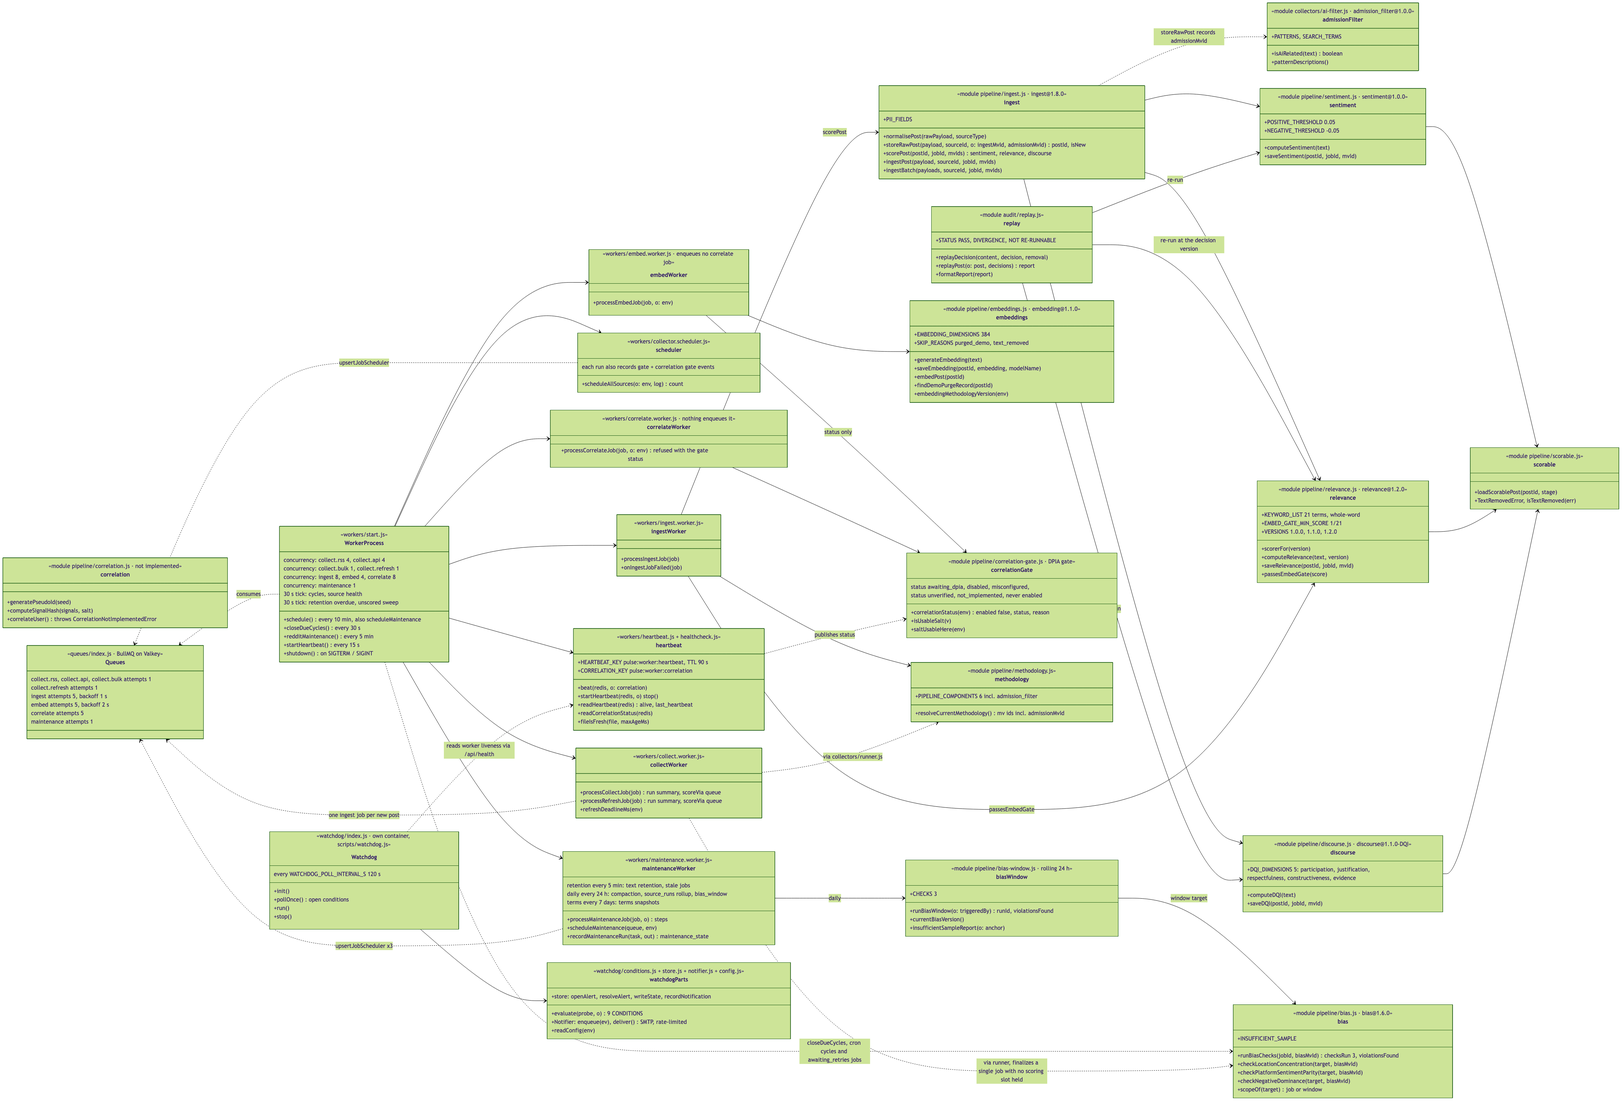
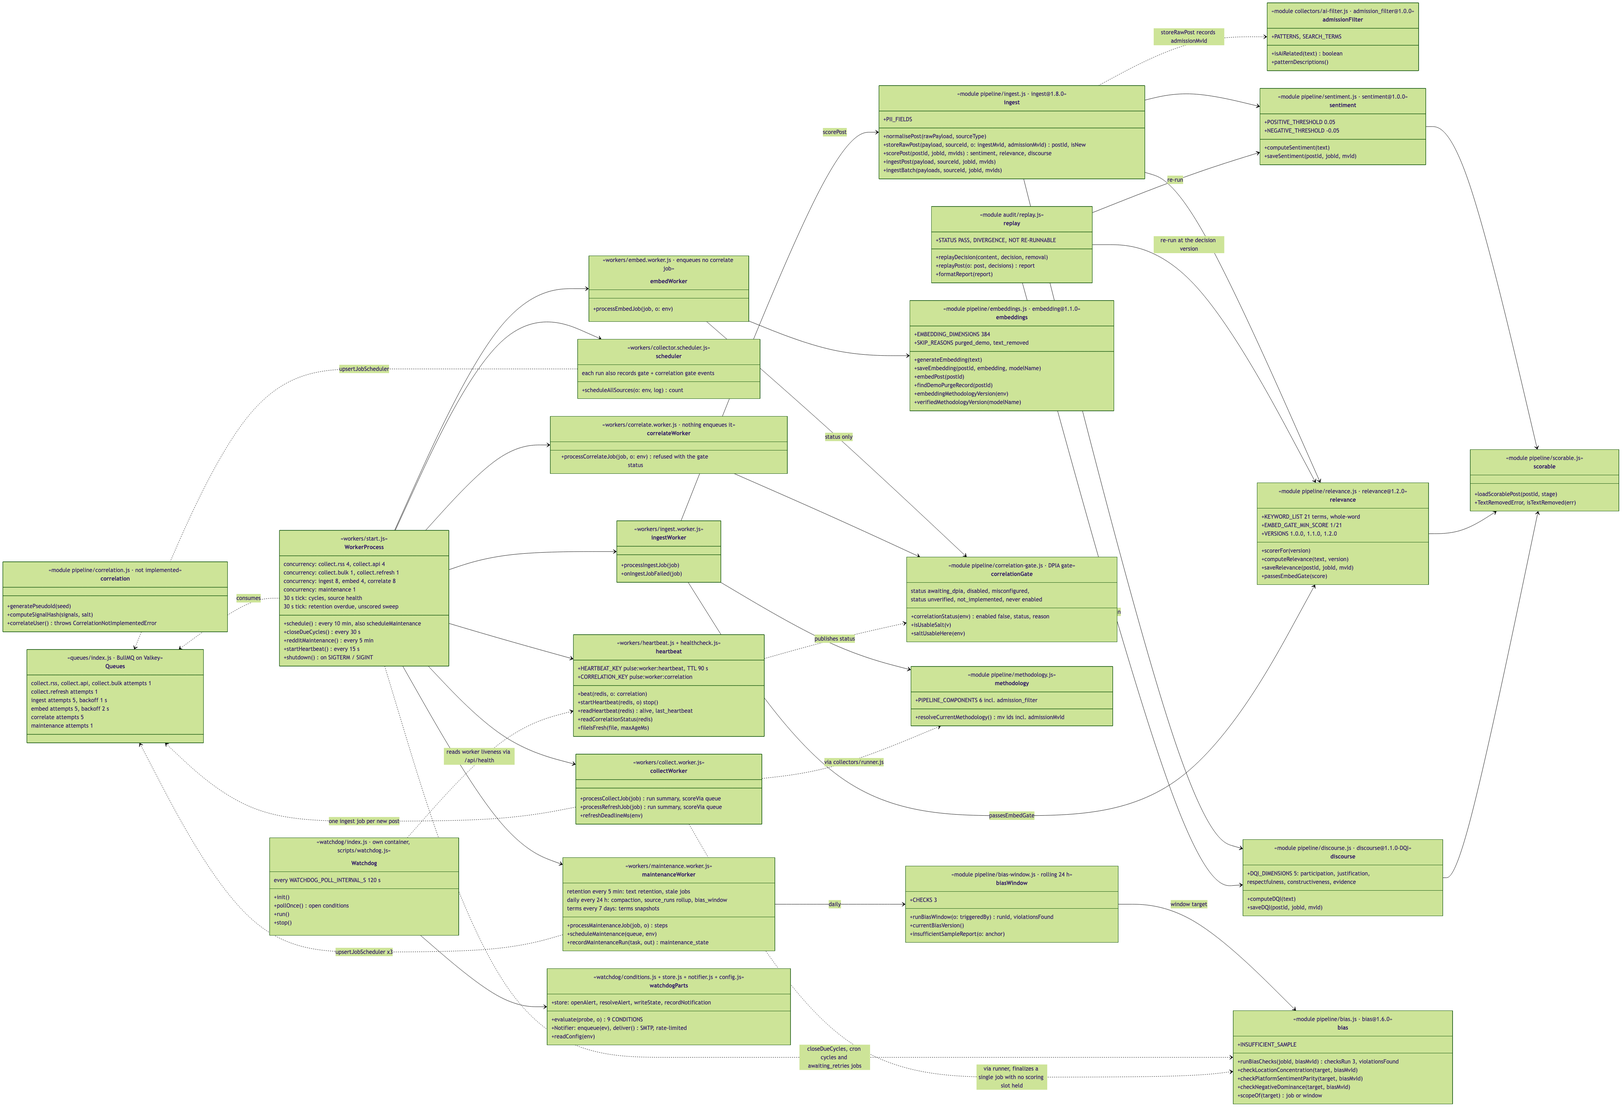
Diagrams: embed worker verifies /health before stamping; reset not in the future
Brings five diagrams in line with PR #43 and names master @ 2b5e6c3:
- architecture: the worker's edge to the embeddings service is POST
  /embeddings, then GET /health (model, revision, library); its sources
  list src/pipeline/embeddings.js.
- collection-3 step 38: the stamp needs /health to report the registered
  model, revision and library, else NULL; an unreadable /health fails and
  retries the job.
- pipeline-and-workers: embeddings exports verifiedMethodologyVersion.
- collection-1 R4 and source-gate-status: a SOURCE_<SLUG>_RESET date must
  not be in the future.
- README and MANIFEST: master @ 2b5e6c3 (PRs #41 and #43 merged).

PNGs and HTML re-rendered with render.sh; MANIFEST PNG sizes updated for
collection-1 (5868x2726), collection-3 (5025x1544) and pipeline-and-workers
(4586x3131). render.sh --check: 21/21 ok.

diff --git a/docs/diagrams/architecture.html b/docs/diagrams/architecture.html
@@ -30,7 +30,7 @@
 %% Title: High-level architecture (containers)
 %% Summary: Every running container of the compose stack, what runs inside it, the queues between them and the 52-source registry they collect from.
 %% Canonical source. architecture.html embeds this definition verbatim and architecture.png is rendered from it (bash docs/diagrams/render.sh).
-%% Sources: docker-compose.yml, src/server.js, src/routes/*, src/routes/health.js, src/queues/index.js, src/workers/start.js, src/workers/collect.worker.js, src/workers/ingest.worker.js, src/workers/maintenance.worker.js, src/workers/collector.scheduler.js, src/collectors/{runner,state,governance,source-health,retention-overdue}.js, src/collectors/reddit/maintenance.js, src/workers/heartbeat.js, scripts/watchdog.js, src/watchdog/*, public/index.html, src/config/source-registry.js, src/db/migrations/ (50 files, 001-066). Spec: TECHNICAL_SPEC.md sections 4, 7, 12, 17. Updated 2026-09-30.
+%% Sources: docker-compose.yml, src/server.js, src/routes/*, src/routes/health.js, src/queues/index.js, src/workers/start.js, src/workers/collect.worker.js, src/workers/ingest.worker.js, src/pipeline/embeddings.js, src/workers/maintenance.worker.js, src/workers/collector.scheduler.js, src/collectors/{runner,state,governance,source-health,retention-overdue}.js, src/collectors/reddit/maintenance.js, src/workers/heartbeat.js, scripts/watchdog.js, src/watchdog/*, public/index.html, src/config/source-registry.js, src/db/migrations/ (50 files, 001-066). Spec: TECHNICAL_SPEC.md sections 4, 7, 12, 17. Updated 2026-10-01.
 flowchart LR
 
   subgraph BROWSER["② Browser · public/"]
@@ -144,7 +144,7 @@ flowchart LR
   Q3 --&gt; K4
   K4 -- "scores, audit rows" --&gt; D2
   K4 -- "embed jobs" --&gt; Q3
-  K4 -- "POST /embeddings" --&gt; E1
+  K4 -- "POST /embeddings, then GET /health (model, revision, library)" --&gt; E1
   K4 -- "post_embeddings" --&gt; D3
   K3 -- "bias_assessments, alert_events" --&gt; D3
   K5 -- "blank deleted Reddit posts (raw_posts)" --&gt; D2

diff --git a/docs/diagrams/model/pipeline-and-workers.html b/docs/diagrams/model/pipeline-and-workers.html
@@ -29,7 +29,7 @@
 <pre class="mermaid">
 %% Title: Object model · pipeline modules, workers and queues
 %% Summary: The scoring pipeline modules and what each exports, the methodology resolver, the BullMQ queues on Valkey and the worker handlers that consume them (incl. the maintenance schedulers), the audit replay module and the external watchdog.
-%% Sources: src/pipeline/*.js, src/collectors/ai-filter.js, src/queues/{index,connection,pending}.js, src/workers/*.js, src/collectors/runner.js (single-job finalization), src/db/pool-size.js (workerConcurrency), src/audit/replay.js, src/watchdog/*.js, scripts/watchdog.js, src/config/methodology-registry.js (CURRENT_VERSIONS), docker-compose.yml (redis service = Valkey 8). Updated 2026-09-30. Spec: TECHNICAL_SPEC.md sections 9, 10, 12, 18, 19, 20. Versions are CURRENT_VERSIONS of the methodology registry.
+%% Sources: src/pipeline/*.js, src/collectors/ai-filter.js, src/queues/{index,connection,pending}.js, src/workers/*.js, src/collectors/runner.js (single-job finalization), src/db/pool-size.js (workerConcurrency), src/audit/replay.js, src/watchdog/*.js, scripts/watchdog.js, src/config/methodology-registry.js (CURRENT_VERSIONS), docker-compose.yml (redis service = Valkey 8). Updated 2026-10-01. Spec: TECHNICAL_SPEC.md sections 9, 10, 12, 18, 19, 20. Versions are CURRENT_VERSIONS of the methodology registry.
 classDiagram
   direction LR
 
@@ -102,6 +102,7 @@ classDiagram
     +embedPost(postId)
     +findDemoPurgeRecord(postId)
     +embeddingMethodologyVersion(env)
+    +verifiedMethodologyVersion(modelName)
   }
   class correlation {
     &lt;&lt;module pipeline/correlation.js · not implemented&gt;&gt;

diff --git a/docs/diagrams/flows/collection-1-schedule-and-gates.html b/docs/diagrams/flows/collection-1-schedule-and-gates.html
@@ -61,7 +61,7 @@ flowchart LR
     R1{"9 · collection deadline&lt;br/&gt;already reached?"}:::done
     R2{"10 · database kill switch?&lt;br/&gt;data_sources.collection_disabled_at&lt;br/&gt;(npm run source:disable, refused&lt;br/&gt;without GATE_APPROVED_BY)"}:::done
     R3{"11 · refused state?&lt;br/&gt;source_collection_state&lt;br/&gt;access_denied_at, refused_until"}:::done
-    R4["SOURCE_#lt;SLUG#gt;_RESET date at or after the&lt;br/&gt;last refusal and a valid GATE_APPROVED_BY:&lt;br/&gt;clearRefusal() + source_gate_events&lt;br/&gt;refusal_reset, one transaction"]:::done
+    R4["SOURCE_#lt;SLUG#gt;_RESET date at or after the&lt;br/&gt;last refusal, not in the future, and a valid&lt;br/&gt;GATE_APPROVED_BY:&lt;br/&gt;clearRefusal() + source_gate_events&lt;br/&gt;refusal_reset, one transaction"]:::done
     R5{"12 · claim: last attempt older than&lt;br/&gt;the poll interval, less a jitter slack&lt;br/&gt;(at most 20 %)? (state.claim,&lt;br/&gt;atomic across worker and refresh)"}:::done
     R1 -- no --&gt; R2
     R2 -- no --&gt; R3

diff --git a/docs/diagrams/flows/collection-3-cycle-close-bias-alerts.html b/docs/diagrams/flows/collection-3-cycle-close-bias-alerts.html
@@ -76,7 +76,7 @@ flowchart LR
     direction TB
     E1["36 · embed.worker: embedPost(id)&lt;br/&gt;5 attempts, exponential backoff from 2 s"]:::done
     E2["37 · POST embeddings:8000/embeddings&lt;br/&gt;all-MiniLM-L6-v2 at the pinned revision"]:::done
-    E3["38 · upsert post_embeddings VECTOR(384),&lt;br/&gt;methodology_version 1.1.0 only when model&lt;br/&gt;and revision are the registered ones; skipped&lt;br/&gt;when the text was removed (checked FOR SHARE,&lt;br/&gt;G3) or the demo post purged"]:::done
+    E3["38 · GET embeddings:8000/health, then upsert&lt;br/&gt;post_embeddings VECTOR(384), methodology_version&lt;br/&gt;1.1.0 only when model and revision are the&lt;br/&gt;registered ones and /health reports the registered&lt;br/&gt;model, revision and library, else NULL; /health&lt;br/&gt;unreadable: the job fails and is retried; skipped&lt;br/&gt;when the text was removed (checked FOR SHARE,&lt;br/&gt;G3) or the demo post purged"]:::done
     E1 --&gt; E2 --&gt; E3
   end
 

diff --git a/docs/diagrams/states/source-gate-status.html b/docs/diagrams/states/source-gate-status.html
@@ -69,7 +69,7 @@ stateDiagram-v2
   collecting --&gt; blocked_by_source : 401, 403, 451, bot challenge or robots disallow, cooldown 1 h doubling to 24 h
   blocked_by_source --&gt; collecting : cooldown over and the one probe run succeeds
   blocked_by_source --&gt; blocked_by_source : probe refused again, cooldown doubles
-  blocked_by_source --&gt; collecting : SOURCE_SLUG_RESET date on or after the refusal with a valid GATE_APPROVED_BY, or source-admin reset (needs GATE_APPROVED_BY)
+  blocked_by_source --&gt; collecting : SOURCE_SLUG_RESET date on or after the refusal and not in the future with a valid GATE_APPROVED_BY, or source-admin reset (needs GATE_APPROVED_BY)
 
   state collecting {
     direction LR

diff --git a/docs/diagrams/MANIFEST-author.md b/docs/diagrams/MANIFEST-author.md
@@ -1,6 +1,6 @@
 # Author's manifest (for the independent audit)
 
-Branch `docs/diagrams-and-readme`, cut from `origin/feature/source-collectors` at `1399519`, merged with `origin/master` at `20de9e2` (PRs #9 and #10), again at `973cad8` (PR #22, collection hardening), again at `7291490` (PRs #24–#28 and #31–#34; #29 and #30 were closed without merging) and again at `0356a00` (PRs #35, #37, #38 and #39; #36 is an issue, not a PR). The diagram table, the README rows and the legal-notice work below describe `master` @ `0356a00` plus what this branch ships (the licence and the legal-notice UI). Nothing is marked wip: every PR #10 Part 2 item landed with PR #22.
+Branch `docs/diagrams-and-readme`, cut from `origin/feature/source-collectors` at `1399519`, merged with `origin/master` at `20de9e2` (PRs #9 and #10), again at `973cad8` (PR #22, collection hardening), again at `7291490` (PRs #24–#28 and #31–#34; #29 and #30 were closed without merging), again at `0356a00` (PRs #35, #37, #38 and #39; #36 is an issue, not a PR) and again at `2b5e6c3` (PRs #41 and #43). The diagram table, the README rows and the legal-notice work below describe `master` @ `2b5e6c3` plus what this branch ships (the licence and the legal-notice UI). Nothing is marked wip: every PR #10 Part 2 item landed with PR #22.
 
 How to verify the artifacts: `bash docs/diagrams/render.sh --check` confirms that every `.html` embeds its `.mmd` byte for byte (after HTML unescaping), and that every `.png` exists, is under 8000 px in both dimensions and matches a fresh re-render of its `.mmd` (same dimensions; at most PNG_TOLERANCE = 0.05% of pixels differing by more than 32 in a channel), and carries the SHA-256 of its current .mmd (tEXt chunk mmd-sha256). No timestamps are used. `bash docs/diagrams/render.sh <file.mmd>` regenerates both from the source with mermaid-cli 11.12.0, `-t forest`, `mmdc-config.json`.
 
@@ -8,19 +8,19 @@ How to verify the artifacts: `bash docs/diagrams/render.sh --check` confirms tha
 
 | # | File (`docs/diagrams/`) | PNG px | Code it was derived from (the `.mmd` header) | Spec § | Status |
 |---|---|---|---|---|---|
-| 1 | `architecture.mmd` | 5806×5536 | Canonical source. architecture.html embeds this definition verbatim and architecture.png is rendered from it (bash docs/diagrams/render.sh). Sources: docker-compose.yml, src/server.js, src/routes/*, src/routes/health.js, src/queues/index.js, src/workers/start.js, src/workers/collect.worker.js, src/workers/ingest.worker.js, src/workers/maintenance.worker.js, src/workers/collector.scheduler.js, src/collectors/{runner,state,governance,source-health,retention-overdue}.js, src/collectors/reddit/maintenance.js, src/workers/heartbeat.js, scripts/watchdog.js, src/watchdog/*, public/index.html, src/config/source-registry.js, src/db/migrations/ (50 files, 001-066). Spec: TECHNICAL_SPEC.md sections 4, 7, 12, 17. Updated 2026-09-30. | 4, 7, 12, 17 | done |
+| 1 | `architecture.mmd` | 5806×5536 | Canonical source. architecture.html embeds this definition verbatim and architecture.png is rendered from it (bash docs/diagrams/render.sh). Sources: docker-compose.yml, src/server.js, src/routes/*, src/routes/health.js, src/queues/index.js, src/workers/start.js, src/workers/collect.worker.js, src/workers/ingest.worker.js, src/pipeline/embeddings.js, src/workers/maintenance.worker.js, src/workers/collector.scheduler.js, src/collectors/{runner,state,governance,source-health,retention-overdue}.js, src/collectors/reddit/maintenance.js, src/workers/heartbeat.js, scripts/watchdog.js, src/watchdog/*, public/index.html, src/config/source-registry.js, src/db/migrations/ (50 files, 001-066). Spec: TECHNICAL_SPEC.md sections 4, 7, 12, 17. Updated 2026-10-01. | 4, 7, 12, 17 | done |
 | 2 | `architecture/deployment-standup.mmd` | 2169×4352 | docker-compose.yml (x-app-env, x-collector-settings, x-collector-presence, x-app, services incl. worker env_file and watchdog, volumes), Dockerfile, python/Dockerfile, src/server.js (listenHost), src/routes/refresh.js, src/workers/heartbeat.js, scripts/watchdog.js, src/watchdog/config.js, scripts/standup.sh, .env.example. Spec: TECHNICAL_SPEC.md sections 5 and 8 (secrets management). Updated 2026-09-30. | 5, 8 | done |
 | 3 | `architecture/trust-boundaries.mmd` | 6446×4148 | src/server.js (jsonErrorHandler, listenHost), src/middleware/{same-origin,log-error}.js, src/db/connection.js (pool error logging), src/routes/{refresh,audit,sources}.js, src/collectors/{http,netguard,transport,robots,redact,errors,identity,normalize,provenance,governance}.js, src/config/source-registry.js (GATE_APPROVED_BY), src/config/methodology-registry.js (ingest@1.8.0), src/pipeline/ingest.js, src/db/migrations/035, 036 (append-only triggers), 056, docker-compose.yml, public/js/*.js (DOM discipline). Updated 2026-09-30. Spec: TECHNICAL_SPEC.md section 8 (security and privacy). | 8 | done |
-| 4 | `flows/collection-1-schedule-and-gates.mmd` | 5868×2714 | src/workers/collector.scheduler.js, src/workers/collect.worker.js, src/collectors/runner.js, src/config/source-registry.js (sourceStatus, openRoutes, namedApproval, killReason), src/config/methodology-registry.js (CURRENT_VERSIONS), src/collectors/state.js, src/collectors/refusal.js, src/collectors/governance.js (recordGateTransitions, recordGateEvent), scripts/source-admin.js; migrations 018, 020, 035, 056. Spec: TECHNICAL_SPEC.md section 17; ADR 0001 (kill switches, refused state, D1); PR #22 decision G5. | 17; ADR 0001 | done |
+| 4 | `flows/collection-1-schedule-and-gates.mmd` | 5868×2726 | src/workers/collector.scheduler.js, src/workers/collect.worker.js, src/collectors/runner.js, src/config/source-registry.js (sourceStatus, openRoutes, namedApproval, killReason), src/config/methodology-registry.js (CURRENT_VERSIONS), src/collectors/state.js, src/collectors/refusal.js, src/collectors/governance.js (recordGateTransitions, recordGateEvent), scripts/source-admin.js; migrations 018, 020, 035, 056. Spec: TECHNICAL_SPEC.md section 17; ADR 0001 (kill switches, refused state, D1); PR #22 decision G5. | 17; ADR 0001 | done |
 | 5 | `flows/collection-2-fetch-store-score.mmd` | 6492×1372 | src/collectors/{index,base,http,netguard,transport,robots,normalize,identity,provenance,errors,redact,state,refusal,cycle,runner,ai-filter}.js, src/workers/{collect,ingest}.worker.js, src/pipeline/{ingest,sentiment,relevance,discourse,methodology}.js, src/config/methodology-registry.js; migrations 022, 031, 040, 042, 062. Spec: TECHNICAL_SPEC.md section 8 (PII handling, provenance); ADR 0001 (terms and politeness, D2); PR #22 decision G6. | 8, 17 | done |
-| 6 | `flows/collection-3-cycle-close-bias-alerts.mmd` | 5025×1472 | src/workers/start.js (closeDueCyclesOnce, every 30 s), src/workers/maintenance.worker.js (daily task), src/collectors/cycle.js, src/collectors/sweep.js, src/collectors/{source-health,retention-overdue,source-alerts}.js, src/pipeline/bias.js, src/pipeline/bias-window.js, scripts/bias-window.js, src/workers/{ingest,embed}.worker.js, src/pipeline/embeddings.js, python/embeddings_service.py, src/routes/{health,bias}.js, public/js/{main,ui,utils}.js; migrations 027, 028, 032, 036, 038, 060. Spec: TECHNICAL_SPEC.md sections 9 (bias monitoring, alert flow), 12 (embeddings); PR #22 decision G2. | 9, 12 | done |
+| 6 | `flows/collection-3-cycle-close-bias-alerts.mmd` | 5025×1544 | src/workers/start.js (closeDueCyclesOnce, every 30 s), src/workers/maintenance.worker.js (daily task), src/collectors/cycle.js, src/collectors/sweep.js, src/collectors/{source-health,retention-overdue,source-alerts}.js, src/pipeline/bias.js, src/pipeline/bias-window.js, scripts/bias-window.js, src/workers/{ingest,embed}.worker.js, src/pipeline/embeddings.js, python/embeddings_service.py, src/routes/{health,bias}.js, public/js/{main,ui,utils}.js; migrations 027, 028, 032, 036, 038, 060. Spec: TECHNICAL_SPEC.md sections 9 (bias monitoring, alert flow), 12 (embeddings); PR #22 decision G2. | 9, 12 | done |
 | 7 | `flows/data-flow-live.mmd` | 6982×3464 | src/collectors/runner.js, src/workers/{collect,ingest,maintenance}.worker.js, src/collectors/ai-filter.js, src/pipeline/*.js, src/routes/*.js, public/js/config/api.config.js, public/js/{data,story,ui,main}.js. Spec: TECHNICAL_SPEC.md sections 7 (API), 10 (explainability chain), 11 (user experience). | 7, 10, 11 | done |
 | 8 | `flows/data-flow-demo-and-retention.mmd` | 5342×4544 | scripts/populate.js, scripts/standup.sh, docker-compose.yml (populate, collector settings), src/config/data-mode.js, src/config/source-registry.js (retentionHours, sourceStatus), src/workers/maintenance.worker.js, src/workers/start.js, src/collectors/retention.js, src/collectors/run-retention.js, src/collectors/reddit/{maintenance,recheck}.js, scripts/compact.js; migrations 005, 025, 031, 034, 039. Spec: TECHNICAL_SPEC.md section 19 (layered retention); ADR 0001 ruling 9; PR #22 decisions G3, G4, G5. | 19; ADR 0001 ruling 9 | done |
 | 9 | `data/erd-1-sources-and-jobs.mmd` | 7408×4966 | src/db/migrations/001, 003, 013, 016, 018, 019, 020, 021, 023, 025, 033, 037, 038, 040, 050, 062. Alert writers: src/pipeline/bias.js (writeAlertEvent), src/collectors/source-alerts.js, source-health.js, retention-overdue.js, state.js, governance.js, src/watchdog/store.js and conditions.js. raw_posts is shown with its keys only (full columns in data model 2); alert resolutions, run rollups, gate events and the watchdog tables are in data model 4. Dotted lines are logical links without a foreign key. NOTE_alert_type_values is a legend box, not a table. Spec: TECHNICAL_SPEC.md section 6. | 6 | done |
 | 10 | `data/erd-2-posts-scores-audit.mmd` | 6216×4962 | src/db/migrations/001, 002, 003, 004, 006, 010, 012, 017, 022, 025, 042; src/pipeline/ingest.js (insert), src/collectors/retention.js (blanking), src/config/methodology-registry.js (components). The rolling-window bias tables (060) are in data model 4. Spec: TECHNICAL_SPEC.md sections 6 and 10 (the explainability chain). data_sources and processing_jobs are shown with their keys only (full columns in data model 1). | 6, 10 | done |
 | 11 | `data/erd-3-retention-and-correlation.mmd` | 5272×1272 | src/db/migrations/002 (data_retention_log), 005, 006, 036 and 056 (correlation_gate_events, append-only trigger); scripts/migrate.js (schema_migrations). Writers: src/pipeline/ingest.js (collected), src/collectors/retention.js (blanked_platform_terms, text_removed_detail_window), src/collectors/run-retention.js (rolled_up_source_runs), scripts/compact.js (compacted, purged_demo, compaction_log), src/collectors/governance.js (correlation_gate_events, with the status from src/pipeline/correlation-gate.js), scripts/compact.js (demo purge of user_platform_sightings and pseudonymous_users); src/pipeline/correlation.js writes nothing (correlateUser throws). Spec: TECHNICAL_SPEC.md sections 19 (layered retention) and 20 (correlation). raw_posts and data_sources are shown with their keys only. Dotted lines are logical links without a foreign key. | 19, 20 | done |
 | 12 | `model/collector-framework.mmd` | 4764×3390 | src/collectors/{base,index,http,robots,netguard,transport,errors,runner,cycle,state,refusal,status,retention,normalize,identity,provenance,redact,ai-filter,governance,terms-text,source-health,source-alerts,retention-overdue,run-retention,stale-jobs,sweep}.js, src/collectors/adapters/*.js, src/collectors/reddit/{api,budget}.js, src/config/source-registry.js. Spec: ADR 0001 (strategy / adapter pattern, gate status); TECHNICAL_SPEC.md section 17. | 17; ADR 0001 | done |
-| 13 | `model/pipeline-and-workers.mmd` | 4586×3113 | src/pipeline/*.js, src/collectors/ai-filter.js, src/queues/{index,connection,pending}.js, src/workers/*.js, src/collectors/runner.js (single-job finalization), src/db/pool-size.js (workerConcurrency), src/audit/replay.js, src/watchdog/*.js, scripts/watchdog.js, src/config/methodology-registry.js (CURRENT_VERSIONS), docker-compose.yml (redis service = Valkey 8). Updated 2026-09-30. Spec: TECHNICAL_SPEC.md sections 9, 10, 12, 18, 19, 20. Versions are CURRENT_VERSIONS of the methodology registry. | 9, 10, 12, 18, 19, 20 | done |
+| 13 | `model/pipeline-and-workers.mmd` | 4586×3131 | src/pipeline/*.js, src/collectors/ai-filter.js, src/queues/{index,connection,pending}.js, src/workers/*.js, src/collectors/runner.js (single-job finalization), src/db/pool-size.js (workerConcurrency), src/audit/replay.js, src/watchdog/*.js, scripts/watchdog.js, src/config/methodology-registry.js (CURRENT_VERSIONS), docker-compose.yml (redis service = Valkey 8). Updated 2026-10-01. Spec: TECHNICAL_SPEC.md sections 9, 10, 12, 18, 19, 20. Versions are CURRENT_VERSIONS of the methodology registry. | 9, 10, 12, 18, 19, 20 | done |
 | 14 | `model/frontend-modules.mmd` | 7130×4278 | public/index.html (script order), public/js/*.js, public/js/config/*.js. Updated 2026-09-29 (PR #22: the watchdog SYSTEM ALERT chip and banner, the SYSTEM WATCHDOG drawer section, the publisher-location layer). Spec: TECHNICAL_SPEC.md section 11; PRD section 4.3 (the FuN.zip prototype is the design of record). | 11; PRD 4.3 | done |
 | 15 | `sequences/audit-receipt.mmd` | 3452×3874 | public/js/ui.js (openAudit, mapAuditResponse, AUDIENCES), src/routes/audit.js, src/config/{audit-narration,bias-lineage,bias-vocabulary,source-registry,data-mode}.js, src/collectors/retention.js (retentionStatus), src/db/migrations/042_admission_filter.sql. Updated 2026-09-30. Spec: TECHNICAL_SPEC.md sections 7 (GET /api/audit/:post_id), 8 (provenance), 10 (explainability chain, audiences). | 7, 8, 10 | done |
 | 16 | `sequences/refresh.mmd` | 4828×4304 | src/routes/refresh.js (refreshTokenCheck, boundBeyondLoopback, viaProxy), src/middleware/same-origin.js, src/server.js (mount order, no CORS, listenHost), src/queues/index.js (collect.refresh, ingest), src/workers/collect.worker.js (processRefreshJob, refreshDeadlineMs), src/collectors/runner.js (scoreVia queue), src/workers/ingest.worker.js, src/collectors/cycle.js (reserveRetry, releaseRetry, closeCycles, jobPostsProcessed), src/pipeline/bias.js (runBiasChecks), src/collectors/stale-jobs.js, src/db/migrations/019_refresh_inflight.sql, 040_job_progress.sql. Updated 2026-09-30. Spec: TECHNICAL_SPEC.md section 7 (POST /api/refresh) and section 8 (rate limiting). The page itself never calls this endpoint. | 7, 8 | done |

diff --git a/docs/diagrams/README.md b/docs/diagrams/README.md
@@ -1,6 +1,6 @@
 # Pulse of AI diagrams
 
-These diagrams explain how Pulse of AI works, for reviewers and contributors. Each one describes the code on `master` @ `0356a00` (PRs #9 standup, #10 source collectors, #22 collection hardening, #24–#28, #31–#35, #37, #38 and #39 merged; #29 and #30 were closed without merging and #36 is an issue, not a PR), plus what this PR ships: the legal-notice UI (`public/js/config/legal.config.js`, the header about panel). Nothing drawn is in flight.
+These diagrams explain how Pulse of AI works, for reviewers and contributors. Each one describes the code on `master` @ `2b5e6c3` (PRs #9 standup, #10 source collectors, #22 collection hardening, #24–#28, #31–#35, #37, #38, #39, #41 and #43 merged; #29 and #30 were closed without merging, #36 is an issue, not a PR, and #42 and #44 are still open), plus what this PR ships: the legal-notice UI (`public/js/config/legal.config.js`, the header about panel). Nothing drawn is in flight.
 
 ## How the files fit together
 
